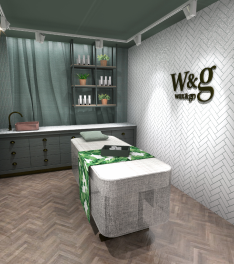
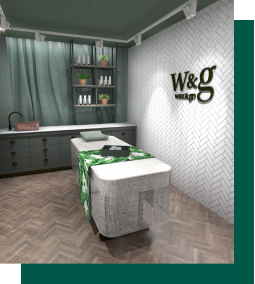
Second page and css fixed

diff --git a/page2.html b/page2.html
@@ -1,0 +1,37 @@
+<!DOCTYPE html>
+<html lang="en">
+  <head>
+    <title>WAX&GO DUBAI</title>
+    <script></script>
+    <link rel="stylesheet" href="css/style.css">
+  </head>
+  <body>
+    <header class="second-page__header">
+        <img src="images/logo.svg" alt="wax&go logo" class="logo">
+    </header>
+    <main class="second-page">
+        <div>
+            <img src="/waxpromo/images/womans.png" class="img-secondpage">
+        </div>
+        <div class="green-text">
+            <p>
+                Wax&Go is a network of premium salons with 13 years 
+                of experience. Our salons specialize in environmentally friendly and safe laser and wax hair removal, 
+                as well as medical and file manicure and pedicure.
+            </p>
+            <p>
+                Arriving at Wax&Go, you will immediately find yourself 
+                in comfort and tranquility. We treat each guest with delicious tea and coffee, as well as fruits and healthy 
+                snacks. 
+                In the waiting area you can relax and escape from the hustle and bustle of the big city, and in our massage 
+                chairs for manicure and pedicure you can take a nap or watch a movie on an individual TV.
+            </p>
+            <p>
+                Relax and don't think about anything: now our experts will take care of you!
+            </p>
+        </div>
+        <div class="spacer">
+        </div>
+    </main>
+  </body>
+</html>
